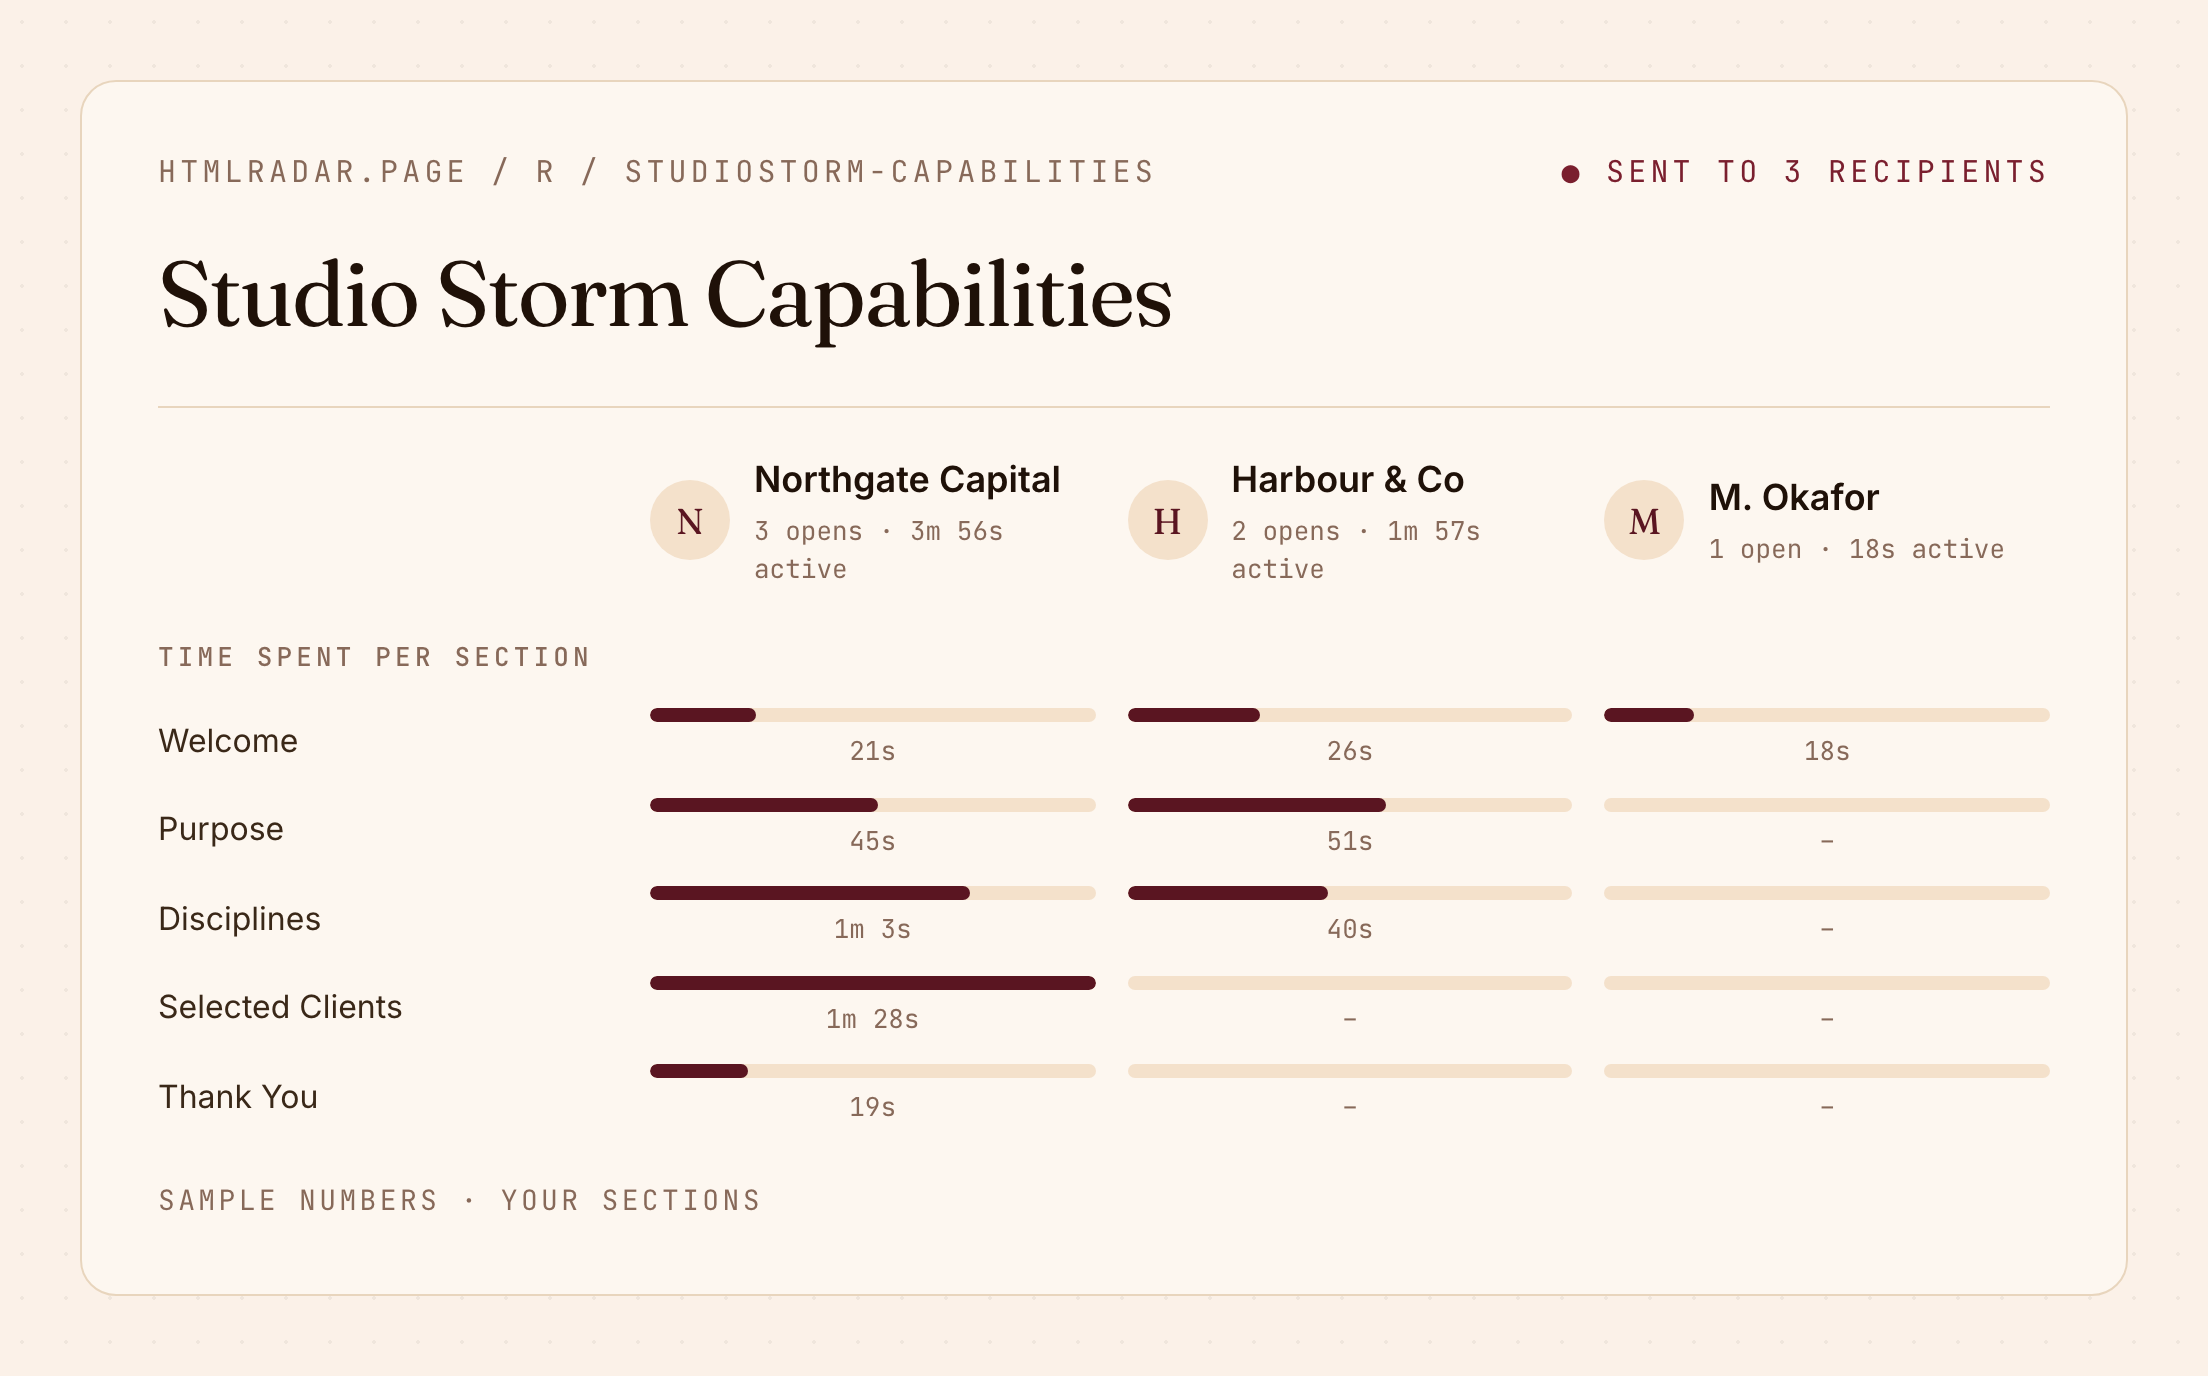
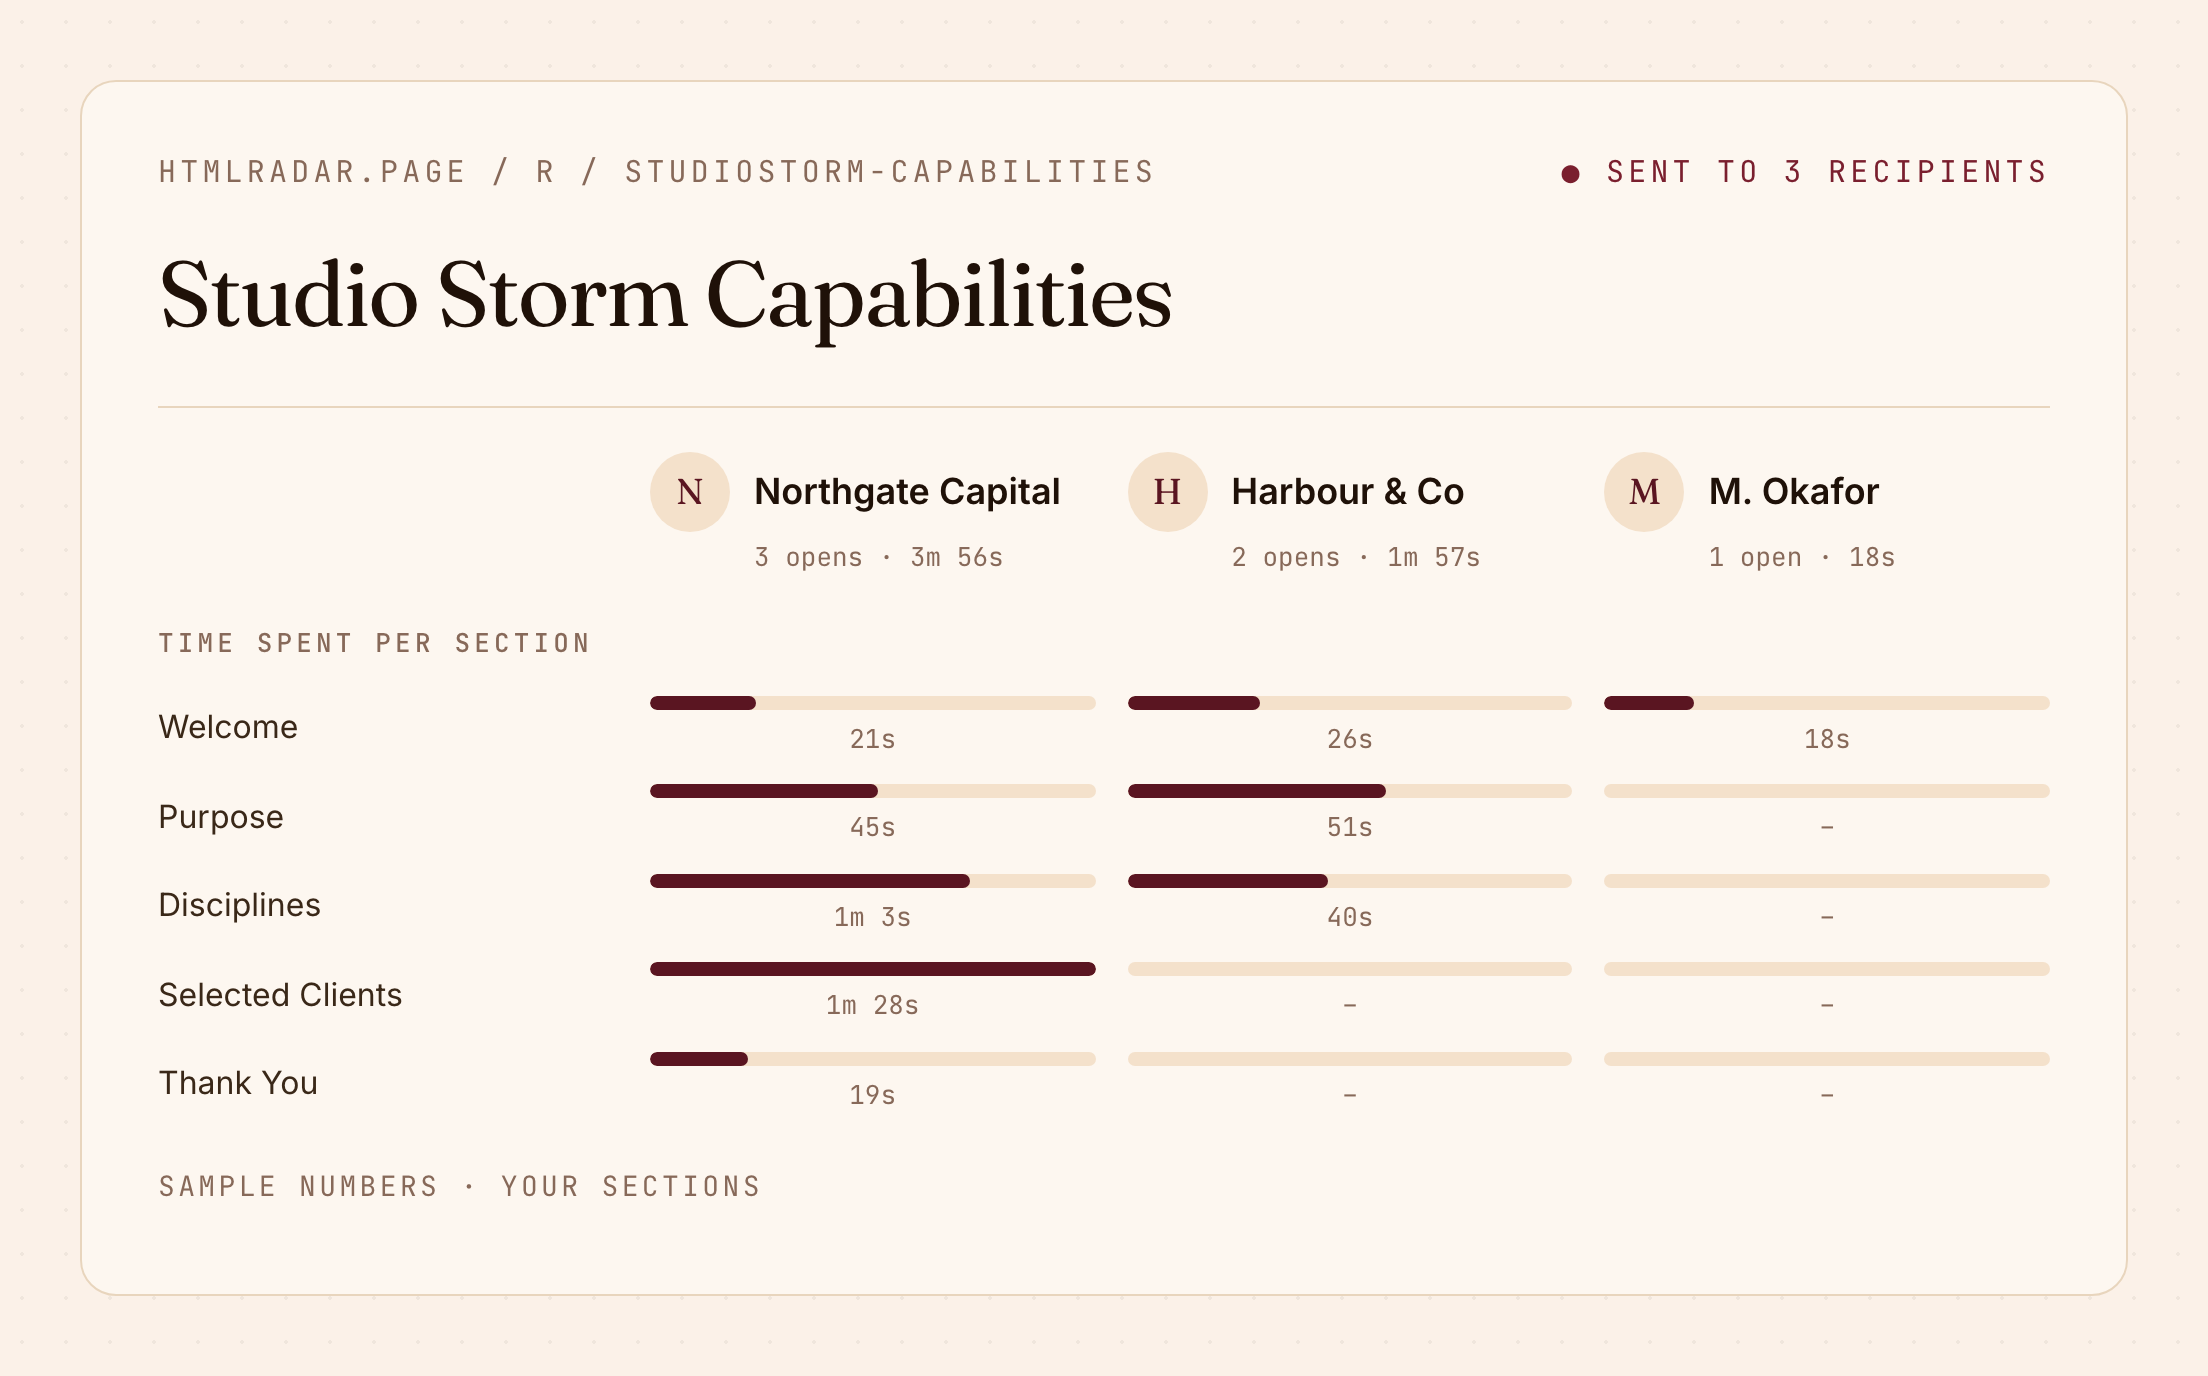
brand: outreach cards, one-line recipient totals

diff --git a/packages/app/scripts/onboarding-email-cards.html b/packages/app/scripts/onboarding-email-cards.html
@@ -279,9 +279,14 @@
         display: grid;
         grid-template-columns: 230px 1fr 1fr 1fr;
         column-gap: 16px;
+        align-items: start;
         margin-top: 22px;
       }
       .orecipient {
+        display: flex;
+        flex-direction: column;
+      }
+      .ohead {
         display: flex;
         align-items: center;
         gap: 12px;
@@ -306,9 +311,11 @@
       }
       .ostats {
         margin-top: 3px;
+        margin-left: 52px;
         font-family: 'JetBrains Mono', ui-monospace, Menlo, monospace;
         font-size: 13px;
         color: var(--graphite);
+        white-space: nowrap;
       }
       .otable {
         margin-top: 24px;
@@ -561,25 +568,25 @@
         <div class="orecipients">
           <div></div>
           <div class="orecipient">
-            <div class="oravatar">N</div>
-            <div>
+            <div class="ohead">
+              <div class="oravatar">N</div>
               <div class="oname">Northgate Capital</div>
-              <div class="ostats">3 opens &middot; 4m 36s active</div>
             </div>
+            <div class="ostats">3 opens &middot; 4m 36s</div>
           </div>
           <div class="orecipient">
-            <div class="oravatar">H</div>
-            <div>
+            <div class="ohead">
+              <div class="oravatar">H</div>
               <div class="oname">Harbour &amp; Co</div>
-              <div class="ostats">2 opens &middot; 3m 15s active</div>
             </div>
+            <div class="ostats">2 opens &middot; 3m 15s</div>
           </div>
           <div class="orecipient">
-            <div class="oravatar">M</div>
-            <div>
+            <div class="ohead">
+              <div class="oravatar">M</div>
               <div class="oname">M. Okafor</div>
-              <div class="ostats">1 open &middot; 46s active</div>
             </div>
+            <div class="ostats">1 open &middot; 46s</div>
           </div>
         </div>
         <div class="otable">
@@ -675,25 +682,25 @@
         <div class="orecipients">
           <div></div>
           <div class="orecipient">
-            <div class="oravatar">N</div>
-            <div>
+            <div class="ohead">
+              <div class="oravatar">N</div>
               <div class="oname">Northgate Capital</div>
-              <div class="ostats">3 opens &middot; 4m 25s active</div>
             </div>
+            <div class="ostats">3 opens &middot; 4m 25s</div>
           </div>
           <div class="orecipient">
-            <div class="oravatar">H</div>
-            <div>
+            <div class="ohead">
+              <div class="oravatar">H</div>
               <div class="oname">Harbour &amp; Co</div>
-              <div class="ostats">2 opens &middot; 2m 17s active</div>
             </div>
+            <div class="ostats">2 opens &middot; 2m 17s</div>
           </div>
           <div class="orecipient">
-            <div class="oravatar">M</div>
-            <div>
+            <div class="ohead">
+              <div class="oravatar">M</div>
               <div class="oname">M. Okafor</div>
-              <div class="ostats">1 open &middot; 22s active</div>
             </div>
+            <div class="ostats">1 open &middot; 22s</div>
           </div>
         </div>
         <div class="otable">
@@ -789,25 +796,25 @@
         <div class="orecipients">
           <div></div>
           <div class="orecipient">
-            <div class="oravatar">N</div>
-            <div>
+            <div class="ohead">
+              <div class="oravatar">N</div>
               <div class="oname">Northgate Capital</div>
-              <div class="ostats">3 opens &middot; 3m 56s active</div>
             </div>
+            <div class="ostats">3 opens &middot; 3m 56s</div>
           </div>
           <div class="orecipient">
-            <div class="oravatar">H</div>
-            <div>
+            <div class="ohead">
+              <div class="oravatar">H</div>
               <div class="oname">Harbour &amp; Co</div>
-              <div class="ostats">2 opens &middot; 1m 57s active</div>
             </div>
+            <div class="ostats">2 opens &middot; 1m 57s</div>
           </div>
           <div class="orecipient">
-            <div class="oravatar">M</div>
-            <div>
+            <div class="ohead">
+              <div class="oravatar">M</div>
               <div class="oname">M. Okafor</div>
-              <div class="ostats">1 open &middot; 18s active</div>
             </div>
+            <div class="ostats">1 open &middot; 18s</div>
           </div>
         </div>
         <div class="otable">
